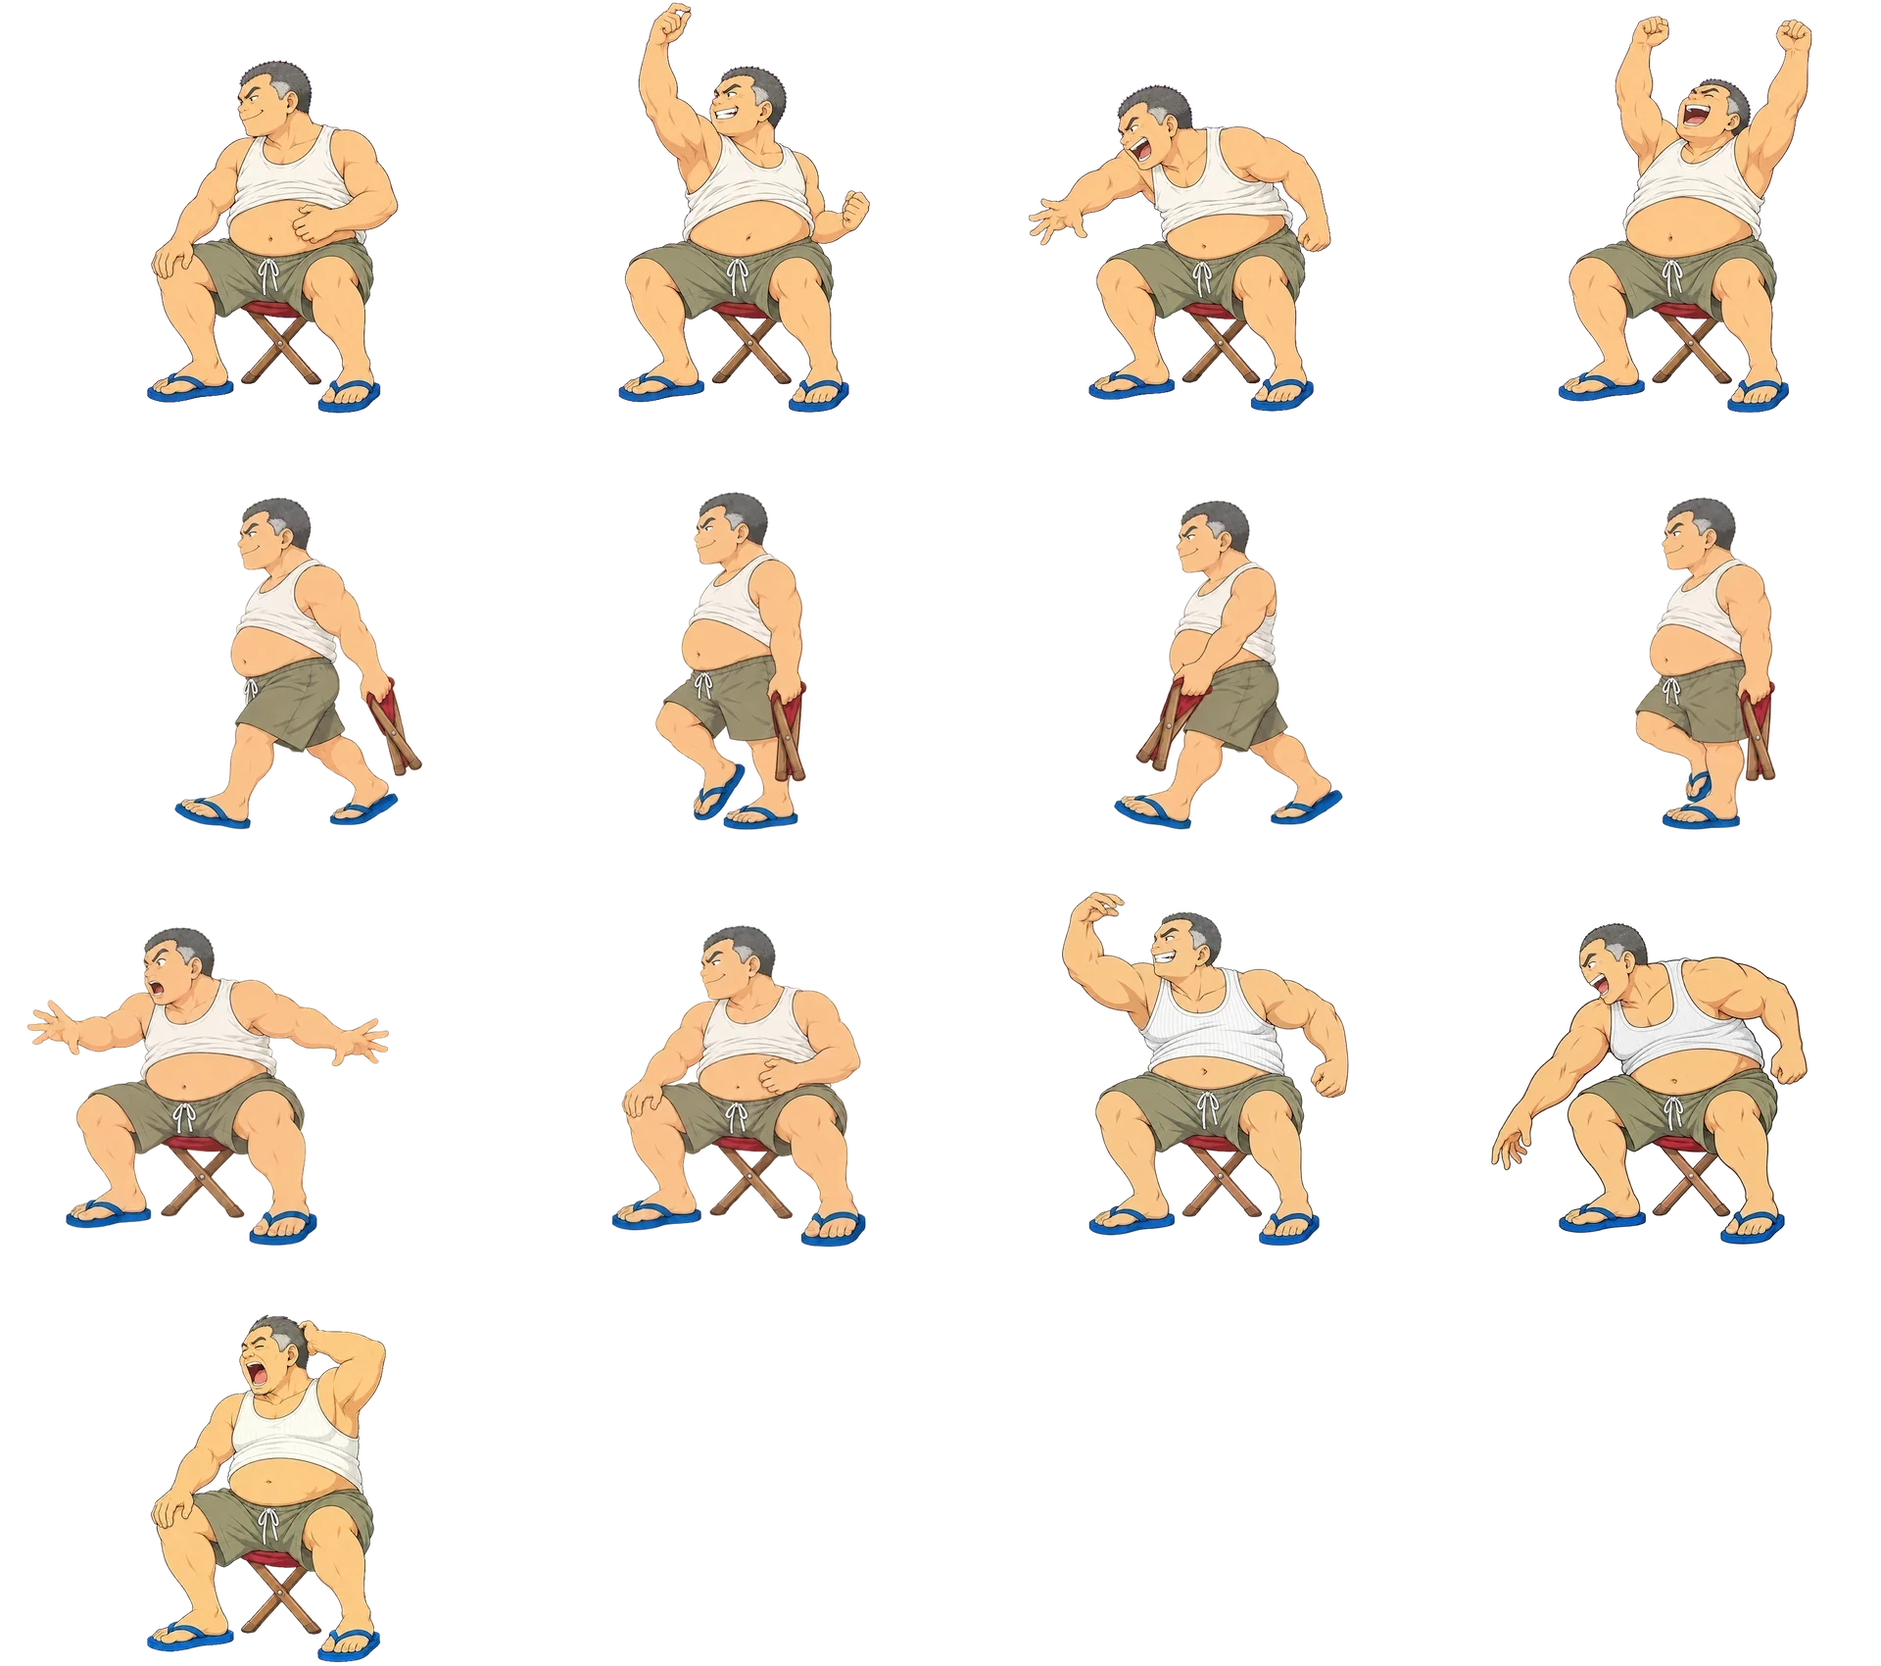
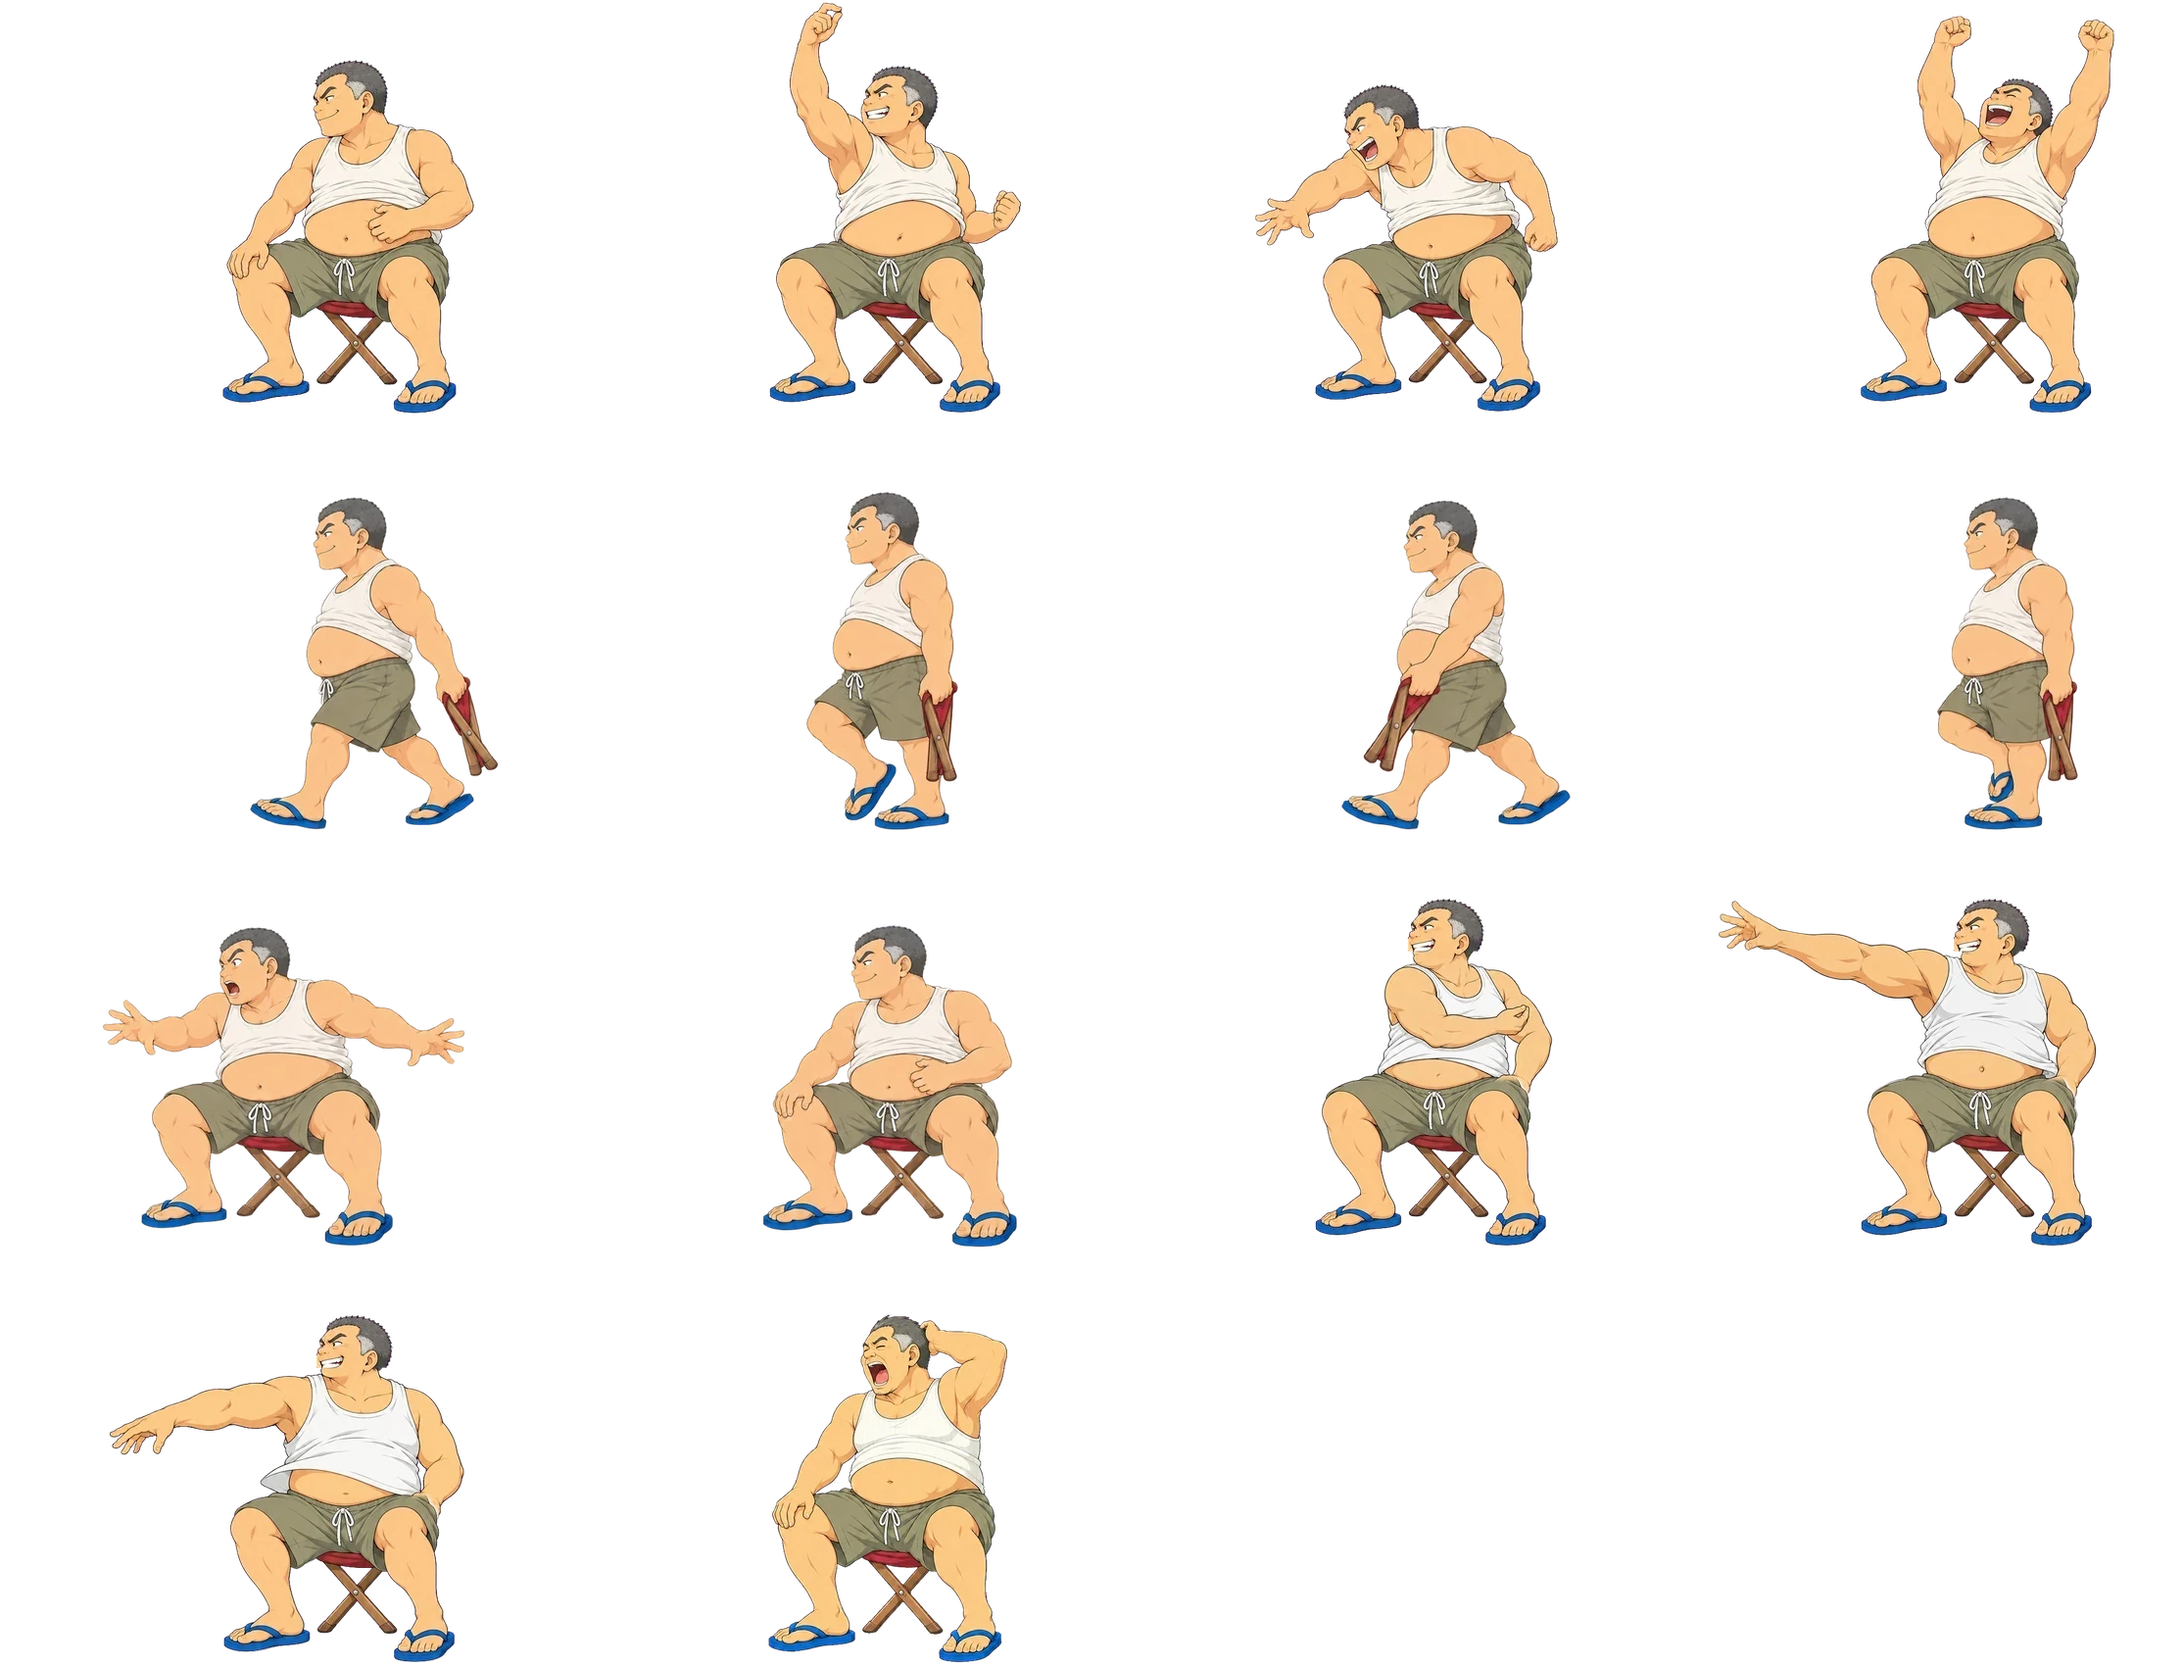
feat: 精美1 哥们 B7 B10 出手瞬间帧 release 上线（wind → swing 收手 → release 伸到最远离手 → thru → follow），hold.release / dir 写进角色数据；B10 x 860 → 858（新帧出画 1 px）
图集是哥们美术补的（右侧加宽，锚点跟着平移）；B10 的 hold 不再依赖 trio_tune 绑 cell 的那份。
HEAD + 两人块：combo_scan buddy 只剩 HEAD 原有的 B8 skid 头框被男主挡（与本次无关，记待办）、不出画；
测试端口 / 正式页 sweep 60 人 0 errors；B10 胶片 40 ms 一格：release 格麻将牌在掌心、下一格往左离手。

diff --git a/chashouji/web/trio_buddy.js b/chashouji/web/trio_buddy.js
@@ -292,18 +292,18 @@ const TRIO_BUDDY = {
 
     B7: {       // 卷发大少：踩着电动平衡车滑进来、甩头发、急刹后仰，站在车上伸手指人；把一张红纸条举过头顶一甩，贴在她身上
       face: -1,
-      sheet: { src: 'assets/trio/B7_f4.webp', cell: [361, 461], cols: 4, names: ['idle', 'wind', 'throw', 'follow', 'cruise', 'swerve', 'brake', 'idle0', 'swing', 'thru', 'idle2'] },
+      sheet: { src: 'assets/trio/B7_f4.webp', cell: [369, 461], cols: 4, names: ['idle', 'wind', 'throw', 'follow', 'cruise', 'swerve', 'brake', 'idle0', 'swing', 'release', 'thru', 'idle2'] },
       /* 后排地面；平衡车画在帧里，锚点 = 车底中点。[740, 1040]：同组 B25 在场四帧相交 0（1070 时 234px） */
-      anchor: [198.1, 453.1], at: [820, 1040, 0.83], pivot: [198.3, 453], leanK: 0,
+      anchor: [206, 453.1], at: [820, 1040, 0.83], pivot: [206.2, 453], leanK: 0,
       depth: 0.8, recipe: 'feather',
       enter: { kind: 'ride', T: 1.0, tilt: 0.1, seq: [['cruise', 0.4], ['swerve', 0.3], ['brake', 9, 'land']], sq: 0.08 },   // 插兜滑行 → 甩头发拐弯 → 急刹后仰
       exit: { frame: 'cruise', flip: true },
       idle: { frame: 'idle', breathe: [0.02, 0.8], alt: { frame: 'idle2', every: [0.5, 1.2], hold: [0.6, 1.0] } },
-      flex: { idle: [[147.3, 8, 239.3, 55, 'b', 4, 0.8]] },   // 爆炸卷发顶：底边（头皮）钉住，发顶颤
+      flex: { idle: [[155.2, 8, 247.2, 55, 'b', 4, 0.8]] },   // 爆炸卷发顶：底边（头皮）钉住，发顶颤
       /* 精美1（P6）：wind 举过头顶 → swing 往前甩到额头前上方、身子前倾卷发外套后拖（这一拍离手，出手点 [92, 48] 仍高过男生头顶 ~90 px）→ throw → thru 手甩到身前低处 → follow；
          idle2 = 手插进卷发往后撩（等引擎 P7）。红牌重画（审查 B7 B）：红纸写白字「红牌」、两头卷边看得出纸厚（raw/prop_src2.png），scale 0.45 → 0.55 让字读得出 */
       atk: { kind: 'throw', item: 'paper', prop: 'assets/trio/B7_redslip.webp', scale: 0.55,
-             seq: [['wind', 0.26], ['swing', 0.07, 'fire'], ['throw', 0.12], ['thru', 0.12], ['follow', 0.33]], hold: { wind: [126.3, 14], swing: [92, 48] },
+             seq: [['wind', 0.22], ['swing', 0.08], ['release', 0.1, 'fire'], ['thru', 0.1], ['follow', 0.33]], dir: { release: 0.7 }, hold: { wind: [134.2, 14], swing: [277, 88], release: [20, 85] },
              T: 0.5, arc: 0.25, spin: 5, gap: [0.6, 1.0], onHit: 'wear' },
     },
 
@@ -351,21 +351,20 @@ const TRIO_BUDDY = {
 
     B10: {      // 麻将大叔：拎着折起来的小马扎晃着肚子走进来，把马扎一撑一屁股坐下；捏两张麻将举过头顶一甩，3D 麻将翻着砸过去，喊"胡了"
       face: -1,
-      sheet: { src: 'assets/trio/B10_mahjong.webp', cell: [480, 425], cols: 4, names: ['idle', 'wind', 'throw', 'follow', 'walk1', 'walk2', 'walk3', 'walk4', 'plop', 'idle0', 'swing', 'thru', 'idle2'] },
+      sheet: { src: 'assets/trio/B10_mahjong.webp', cell: [557, 425], cols: 4, names: ['idle', 'wind', 'throw', 'follow', 'walk1', 'walk2', 'walk3', 'walk4', 'plop', 'idle0', 'swing', 'release', 'thru', 'idle2'] },
       /* 后排地面，锚点 = 两只人字拖中间的地面。坐在马扎上待机、出手（条 1 按马扎配准）。[740, 1020]：同组 B29 在场各帧外扩 4px 相交 0（1040 时 wind 371 px） */
-      anchor: [284.4, 419.4], at: [860, 1000, 0.8], pivot: [284.4, 419], leanK: 0,
+      anchor: [361.6, 419.4], at: [858, 1000, 0.8], pivot: [361.6, 419], leanK: 0,
       depth: 0.8, recipe: 'thud',
       /* 走进来：四帧同一张底图（walk1 / walk2 生图，walk3 / walk4 蒙版重绘腿和手臂），马扎四帧都在近侧手：后 → 胯边 → 前 → 胯边。
          stride 159.5（walkfix pivot，蓝人字拖；walk1 / walk3 鞋尖距 158 / 161），5 步 × 63.8 = 319（最终站位 s 0.8）；精美1 加帧后重跑 walkfix，stride 158.5、dist 5 × 63.4 = 317；第 5 步换成一屁股坐下（plop），
          plop 在图集里已经往前挪了一步（cellshift −80），坐下那一刻马扎就落在站位上，换待机不跳 */
-      enter: { kind: 'walk', fps: 6, bob: 6, stride: 158.5, dist: 317, seq: [[['walk1', 'walk2', 'walk3', 'walk4'], 0.66667], ['plop', 9, 'land']], sq: 0.12 },
+      enter: { kind: 'walk', fps: 6, bob: 6, stride: 159, dist: 318, seq: [[['walk1', 'walk2', 'walk3', 'walk4'], 0.66667], ['plop', 9, 'land']], sq: 0.12 },
       exit: { frame: ['walk1', 'walk2', 'walk3', 'walk4'], fps: 7, flip: true, T: 0.8 },
       idle: { frame: 'idle', breathe: [0.02, 0.8], alt: { frame: 'idle2', every: [0.5, 1.2], hold: [0.6, 1.0] } },
       /* wind 帧捏着牌的拳头举过头顶（拳顶 y 3，头顶 y 62），两张一起离手 */
       /* 精美1（P6 / P7，美术补帧，蒙版局部重绘）：wind 直举 → swing 手臂弯向前、牌在额前上方（这一拍离手）→ throw → thru 手垂到膝前 → follow 举手胡了；idle2 = 打哈欠挠后脑。图集往左扩 7.4。idle0 = 旧的重画 idle（不用），idle2 等引擎 P7 随机切 */
-      /* swing 暂不进 seq：这张屏幕最右出画（combo_scan），重画中 */
       atk: { kind: 'throw', item: 'mahjong', n: 2, r: 20, atlas: { src: 'assets/trio/prop_mahjong.webp', n: 36, cols: 6, cell: 77, scale: 1.37 },
-             seq: [['wind', 0.26], ['throw', 0.12, 'fire'], ['thru', 0.12], ['follow', 0.38]], hold: { wind: [208.4, 8], swing: [184, 76] },
+             seq: [['wind', 0.22], ['swing', 0.08], ['release', 0.1, 'fire'], ['thru', 0.1], ['follow', 0.36]], dir: { release: 15 }, hold: { wind: [285.6, 8], swing: [437, 187], release: [115, 101] },
              T: 0.5, arc: 0.35, spin: 6.3, stretch: 0.03, gap: [0.6, 1.0] },
     },
 
